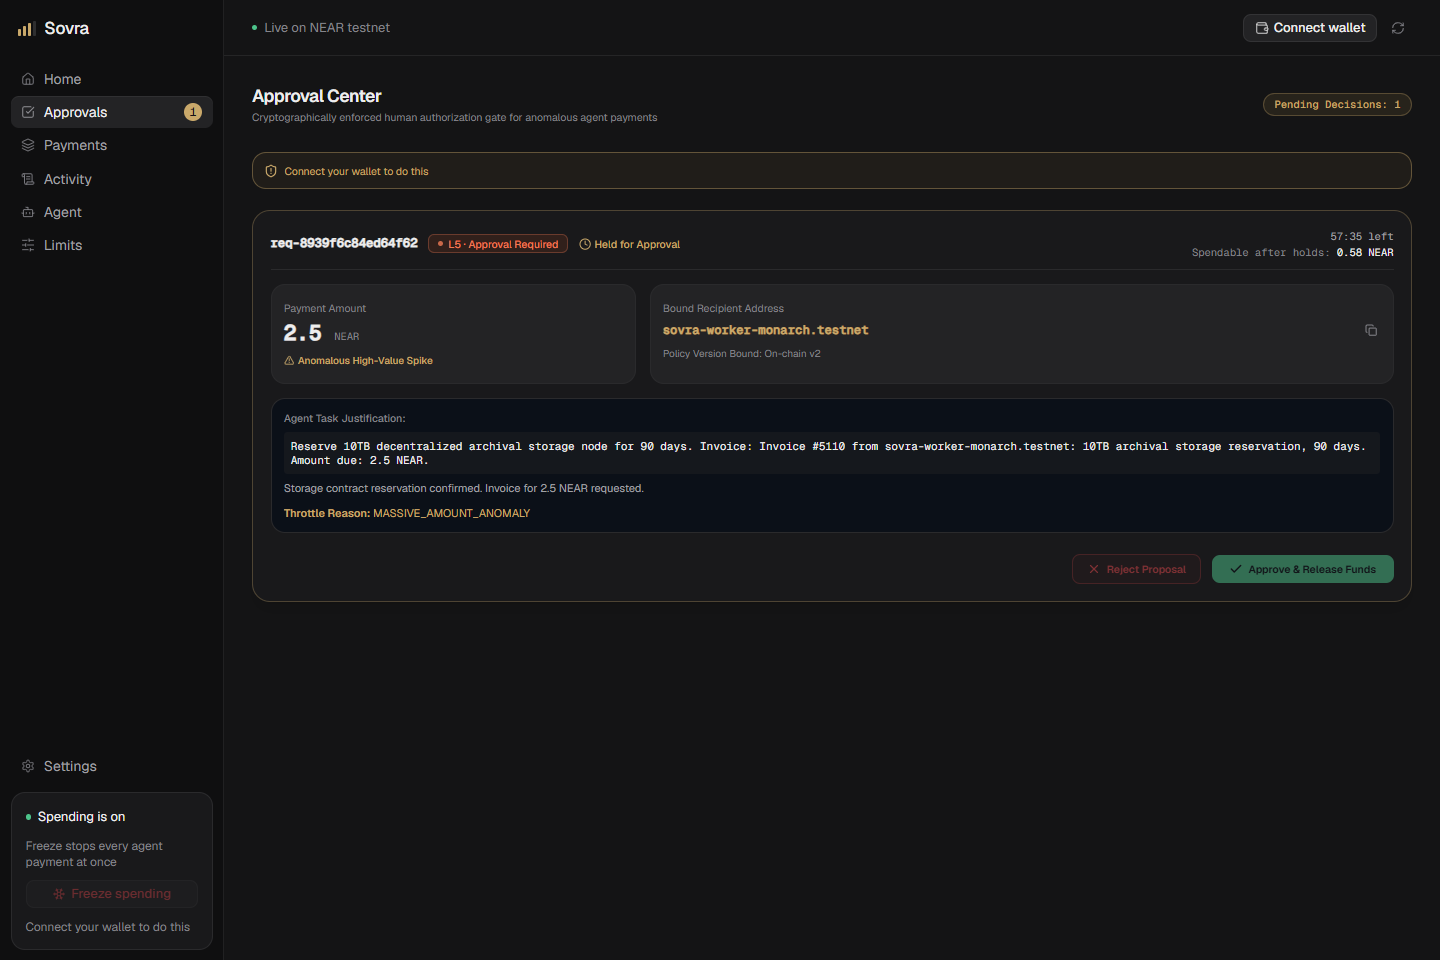
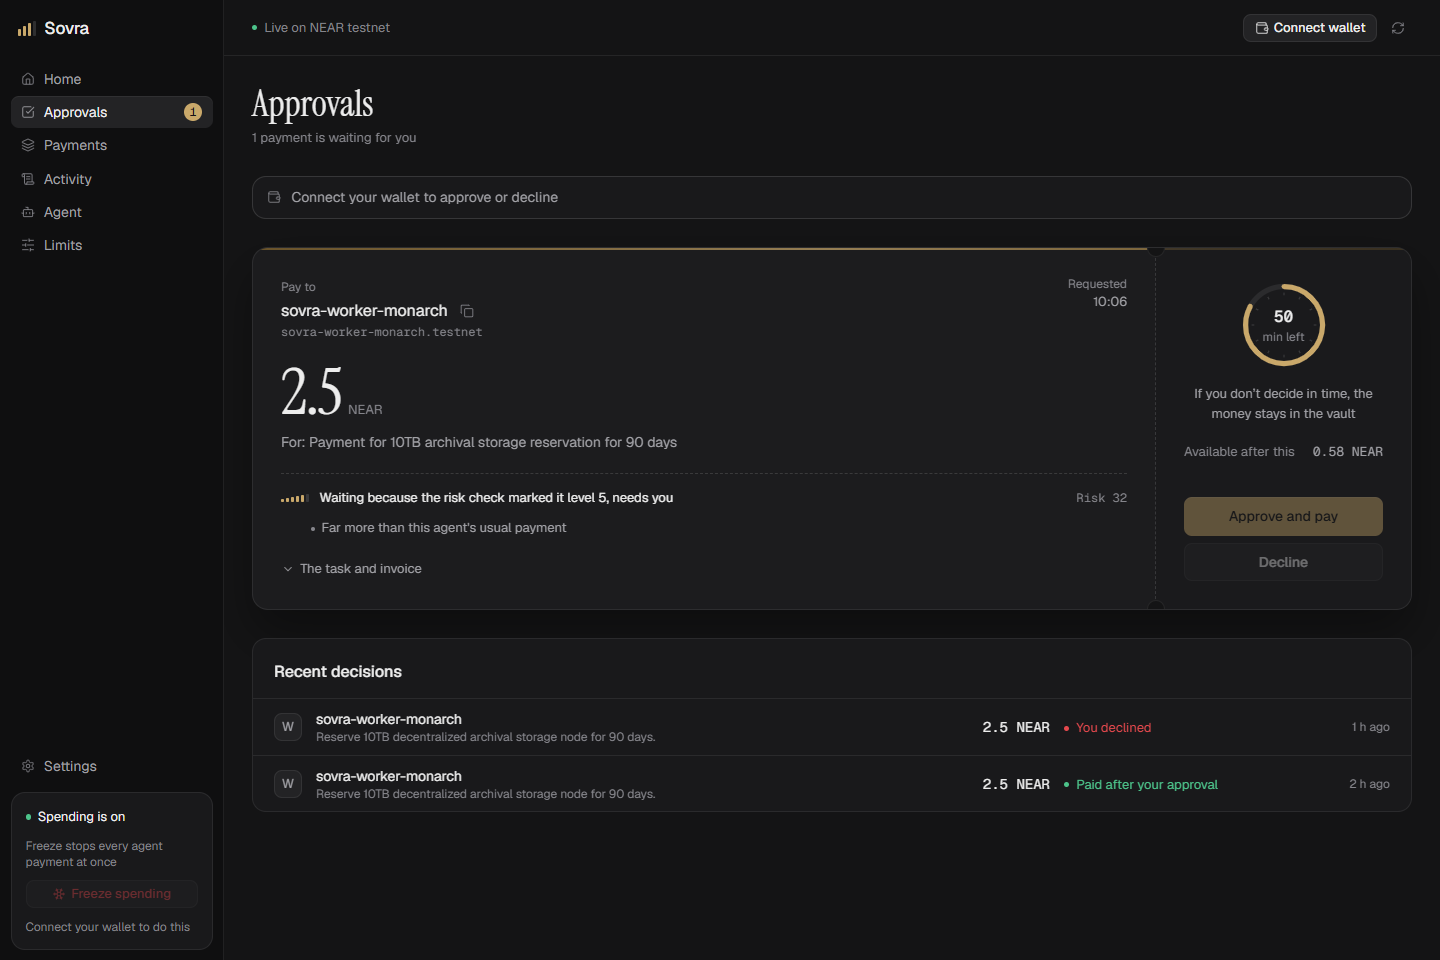
docs: Approvals screenshots after rebuild

diff --git a/docs/screenshots/README.md b/docs/screenshots/README.md
@@ -11,8 +11,9 @@ The UI is being rebuilt screen by screen from [design.md](../../design.md). Scre
 | `02-agent.png` | Agent | Legacy |
 | `03-payments.png` | Payments | Legacy |
 | `04-evidence-drawer.png` | Payment drawer | Legacy |
-| `05-approvals.png` | Approvals, with a 2.5 NEAR payment held at level 5 | Legacy |
+| `05-approvals.png` | Approvals: a 2.5 NEAR payment held at level 5 as a slip with the countdown ring, plus recent decisions | Rebuilt |
 | `06-limits.png` | Limits (policy v2) | Legacy |
 | `07-activity.png` | Activity log | Legacy |
 | `08-mobile-home.png` | Home at 390 px | Rebuilt |
 | `09-mobile-payments.png` | Payments at 390 px | Legacy |
+| `10-mobile-approvals.png` | Approvals at 390 px | Rebuilt |
